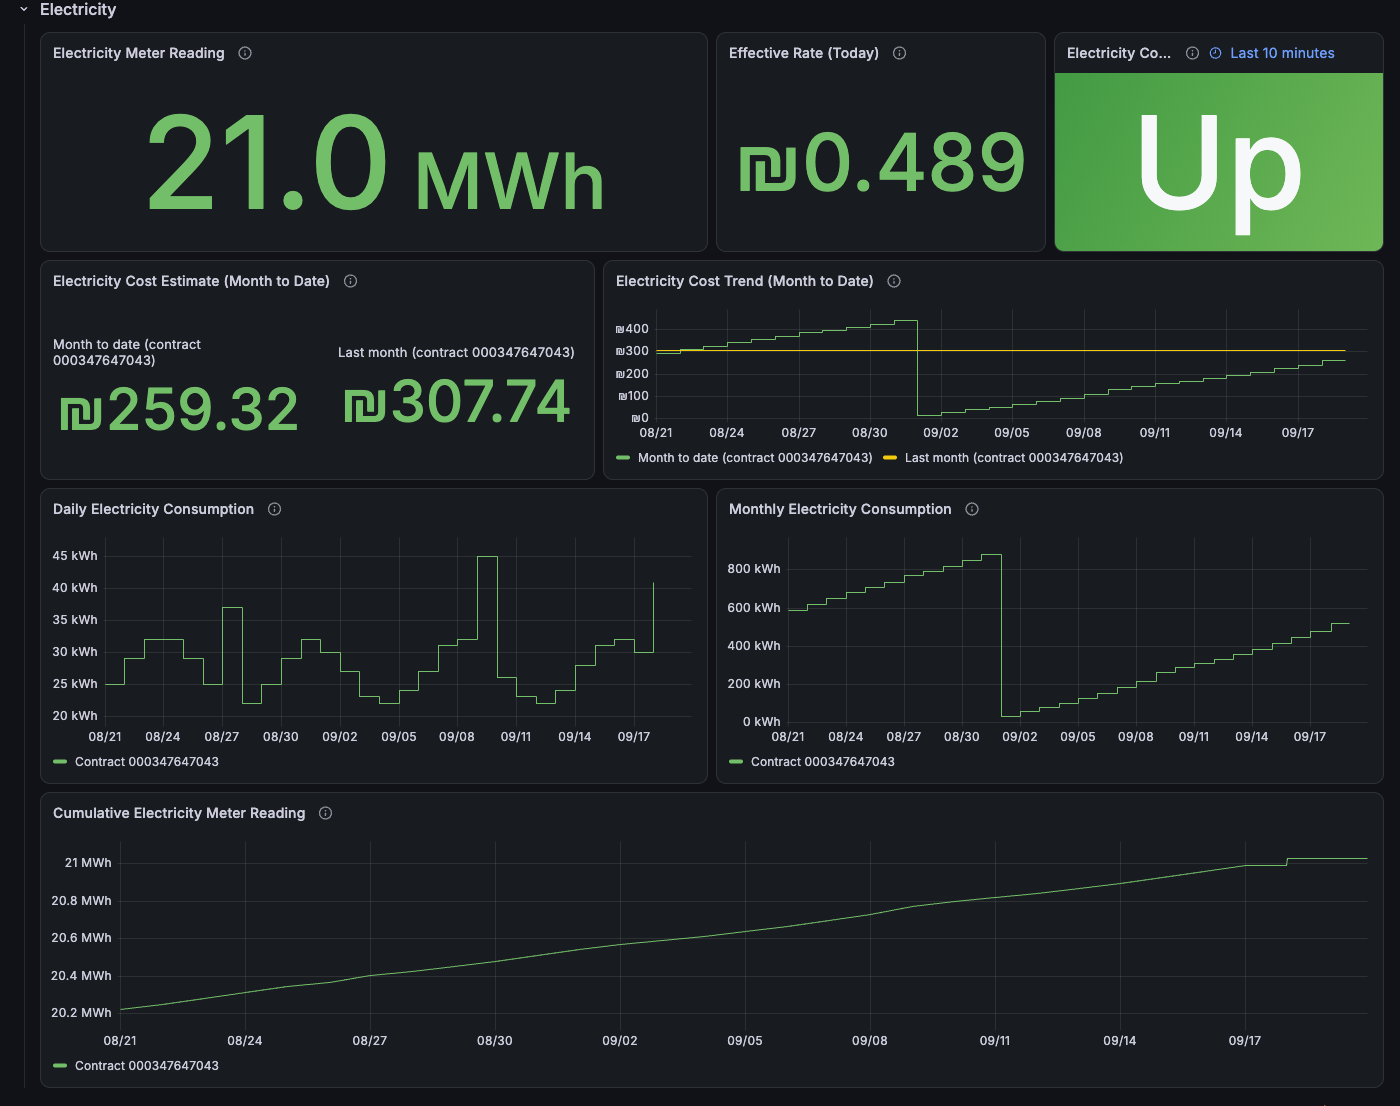
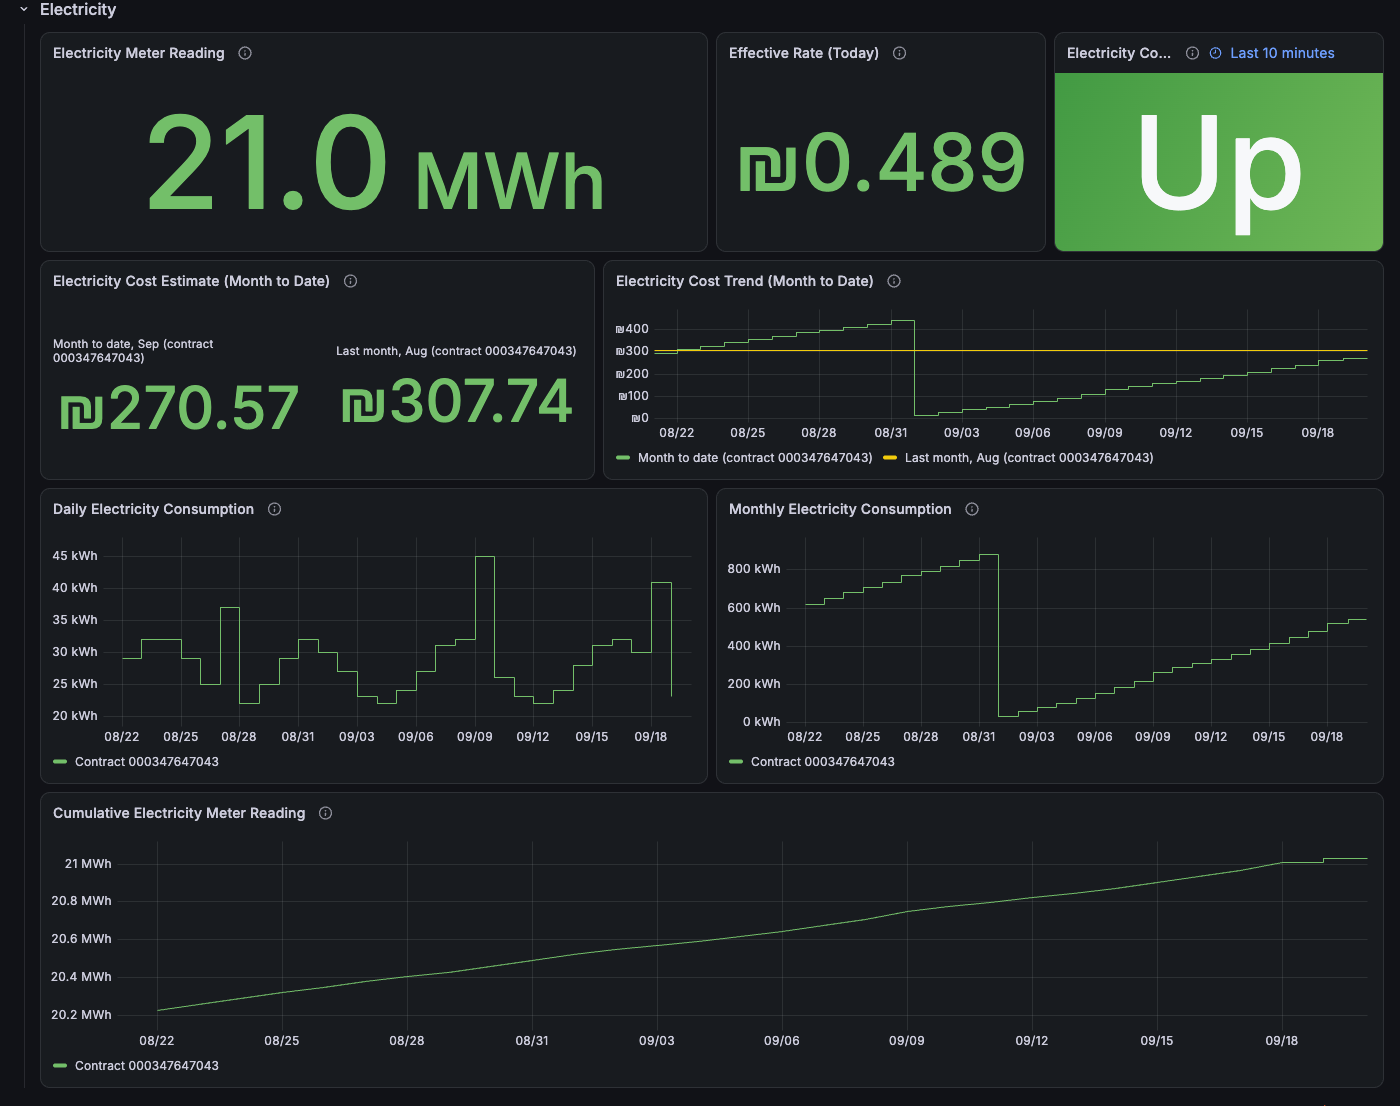
feat: label which calendar month each cost figure covers
Bump to 0.6.6. "Last month"'s cost was genuinely ambiguous once you
could browse the dashboard to a historical range (fixed in the
previous PR) — there was no way to tell which month it referred to.

Added a `month` label (e.g. "Jul") to the previous-month cost gauges,
computed once by the live collectors when they fetch that figure —
correct by construction, no Grafana-side date math needed. "Month to
date" gets a complementary label derived from the dashboard's own
selected range instead, since it isn't tied to a specific series.

Also: Cost Estimate stat panels now always show field names (not just
when multiple fields have data), and the Cost Trend graphs' "Month to
date"/"Forecast" queries got the same last_over_time robustness as the
stat panels, for consistency.

diff --git a/src/metrics.ts b/src/metrics.ts
@@ -103,8 +103,8 @@ export const waterGauges = {
   }),
   costEstimatePreviousMonthIls: new Gauge({
     name: 'israel_utility_water_cost_estimate_previous_month_ils',
-    help: "Last calendar month's final cost, priced the same way as israel_utility_water_cost_estimate_ils (i.e. with today's tariff config, not necessarily the one that applied last month). Only present when priced.",
-    labelNames: WATER_LABELS,
+    help: "Last calendar month's final cost, priced the same way as israel_utility_water_cost_estimate_ils (i.e. with today's tariff config, not necessarily the one that applied last month). Only present when priced. Carries a `month` label (e.g. \"Jul\") naming the calendar month it covers, for dashboards.",
+    labelNames: [...WATER_LABELS, 'month'],
     registers: [registry],
   }),
   meterInfo: new Gauge({
@@ -177,8 +177,8 @@ export const electricityGauges = {
   }),
   costEstimatePreviousMonthIls: new Gauge({
     name: 'israel_utility_electricity_cost_estimate_previous_month_ils',
-    help: "Last calendar month's final cost, priced the same way as israel_utility_electricity_cost_estimate_monthly_ils (i.e. with today's tariff config, not necessarily the one that applied last month). Only present when a price or tariff schedule is configured.",
-    labelNames: ELECTRICITY_LABELS,
+    help: "Last calendar month's final cost, priced the same way as israel_utility_electricity_cost_estimate_monthly_ils (i.e. with today's tariff config, not necessarily the one that applied last month). Only present when a price or tariff schedule is configured. Carries a `month` label (e.g. \"Jul\") naming the calendar month it covers, for dashboards.",
+    labelNames: [...ELECTRICITY_LABELS, 'month'],
     registers: [registry],
   }),
   tokenExpiresTimestampSeconds: new Gauge({

diff --git a/src/water/rympro-client.ts b/src/water/rympro-client.ts
@@ -7,6 +7,8 @@
  * with the HomeKit-facing pieces stripped out.
  */
 
+import { monthAbbreviation } from '../time/day.js';
+
 const BASE_URL = 'https://eu-customerportal-api.harmonyencoremdm.com';
 const CONSUMER_URL = `${BASE_URL}/consumer`;
 const CONSUMPTION_URL = `${BASE_URL}/consumption`;
@@ -96,6 +98,8 @@ export interface MeterSnapshot {
   monthly: number | null;
   /** Last calendar month's total consumption, m³. Null if unavailable. */
   previousMonth: number | null;
+  /** Short name (e.g. "Jul") of the calendar month `previousMonth` covers. Null when `previousMonth` is null. */
+  previousMonthLabel: string | null;
   /** Forecast consumption for the full month, m³. Null if unavailable. */
   forecast: number | null;
   /** Physical meter serial, when reported. */
@@ -215,7 +219,8 @@ export class RymProClient {
       // Any date within last calendar month works — the endpoint keys off
       // the month the date falls in (see `monthlyConsumption`'s own doc
       // comment) — so the last day of the previous month is as good as any.
-      const previousMonth = await this.monthlyConsumption(meterCount, shiftDays(`${today.slice(0, 7)}-01`, -1));
+      const previousMonthDate = shiftDays(`${today.slice(0, 7)}-01`, -1);
+      const previousMonth = await this.monthlyConsumption(meterCount, previousMonthDate);
       const forecast = await this.forecast(meterCount);
 
       snapshots.push({
@@ -229,6 +234,7 @@ export class RymProClient {
         weeklyDaysElapsed: week.elapsed,
         monthly,
         previousMonth,
+        previousMonthLabel: previousMonth !== null ? monthAbbreviation(previousMonthDate) : null,
         forecast,
         serial: typeof meter.meterId === 'string' ? meter.meterId : undefined,
       });

diff --git a/src/electricity/iec-client.ts b/src/electricity/iec-client.ts
@@ -14,6 +14,8 @@ import { createHash, randomBytes } from 'node:crypto';
 import { mkdir, readFile, writeFile } from 'node:fs/promises';
 import { dirname } from 'node:path';
 
+import { monthAbbreviation } from '../time/day.js';
+
 const APP_CLIENT_ID = process.env.IEC_CLIENT_ID || '0oaqf6zr7yEcQZqqt2p7';
 const CODE_CHALLENGE_METHOD = 'S256';
 const APP_REDIRECT_URI = process.env.IEC_REDIRECT_URI || 'com.iecrn:/';
@@ -532,6 +534,7 @@ export class IecClient {
       // day by day rather than only by today's rate.
       monthlyDailyConsumption: dailyBreakdown(monthly.periods),
       previousMonthDailyConsumption: dailyBreakdown(previousMonthly.periods),
+      previousMonthLabel: monthAbbreviation(previousMonthFrom),
       tokenExpiresAt: this.tokenExpiresAt(),
     };
   }
@@ -563,6 +566,8 @@ export interface ElectricitySnapshot {
   monthlyDailyConsumption: Array<{ date: string; consumption: number }>;
   /** Same as `monthlyDailyConsumption`, but for last calendar month, used to price its final cost for comparison. */
   previousMonthDailyConsumption: Array<{ date: string; consumption: number }>;
+  /** Short name (e.g. "Jul") of the calendar month `previousMonthDailyConsumption` covers. */
+  previousMonthLabel: string;
   /** Epoch seconds the current id_token expires at, for the token-expiry alert. */
   tokenExpiresAt: number | null;
 }

diff --git a/test/electricity-collector.test.ts b/test/electricity-collector.test.ts
@@ -10,7 +10,7 @@ import { ElectricityCollector } from '../src/electricity/collector.js';
 import { ReadingResolution } from '../src/electricity/iec-client.js';
 import type { Logger } from '../src/logger.js';
 import { registry } from '../src/metrics.js';
-import { dateToEpochSeconds } from '../src/time/day.js';
+import { dateToEpochSeconds, monthAbbreviation, shiftDays } from '../src/time/day.js';
 
 const VALID_ID = '000000000';
 const CONTRACT_ID = '900123456';
@@ -218,9 +218,13 @@ test('prices last calendar month\'s total separately from this month\'s, with th
   collector.stop();
 
   // this month: 5 kWh @ 2 = 10; last month: 8 kWh @ 2 = 16.
+  const previousMonth = monthAbbreviation(shiftDays(`${currentMonthKey}-01`, -1));
   const body = await registry.metrics();
   assert.match(body, new RegExp(`israel_utility_electricity_cost_estimate_monthly_ils\\{contract_id="${CONTRACT_ID}"\\} 10`));
-  assert.match(body, new RegExp(`israel_utility_electricity_cost_estimate_previous_month_ils\\{contract_id="${CONTRACT_ID}"\\} 16`));
+  assert.match(
+    body,
+    new RegExp(`israel_utility_electricity_cost_estimate_previous_month_ils\\{contract_id="${CONTRACT_ID}",month="${previousMonth}"\\} 16`),
+  );
 });
 
 test('retries persisting the flag on a later successful poll if an earlier write failed', async () => {

diff --git a/test/water-collector.test.ts b/test/water-collector.test.ts
@@ -8,6 +8,7 @@ import { test } from 'node:test';
 import type { WaterConfig } from '../src/config.js';
 import type { Logger } from '../src/logger.js';
 import { registry } from '../src/metrics.js';
+import { monthAbbreviation, shiftDays } from '../src/time/day.js';
 import { WaterCollector } from '../src/water/collector.js';
 
 const METER_ID = 55123;
@@ -139,9 +140,13 @@ test('prices last calendar month\'s total separately from this month\'s, with th
 
   // this month: 5 m3 @ 3 = 15; last month: 8 m3 @ 3 = 24.
   const LABELS = 'meter_id="55123",meter_serial="SER1"';
+  const previousMonth = monthAbbreviation(shiftDays(`${currentMonthKey}-01`, -1));
   const body = await registry.metrics();
   assert.match(body, new RegExp(`israel_utility_water_cost_estimate_ils\\{${LABELS}\\} 15`));
-  assert.match(body, new RegExp(`israel_utility_water_cost_estimate_previous_month_ils\\{${LABELS}\\} 24`));
+  assert.match(
+    body,
+    new RegExp(`israel_utility_water_cost_estimate_previous_month_ils\\{${LABELS},month="${previousMonth}"\\} 24`),
+  );
 });
 
 test('logs the backfill hint on a genuine first run, and not again once data has been recorded', async () => {

diff --git a/src/time/day.ts b/src/time/day.ts
@@ -50,3 +50,15 @@ export function enumerateMonthStarts(from: string, to: string): string[] {
   }
   return starts;
 }
+
+const MONTH_ABBREVIATIONS = ['Jan', 'Feb', 'Mar', 'Apr', 'May', 'Jun', 'Jul', 'Aug', 'Sep', 'Oct', 'Nov', 'Dec'];
+
+/**
+ * Short month name (e.g. "Jul") for a YYYY-MM or YYYY-MM-DD string. A fixed
+ * table instead of `toLocaleString` — deterministic regardless of the host's
+ * ICU data, and this project never needs anything but English abbreviations.
+ */
+export function monthAbbreviation(ymd: string): string {
+  const month = Number(ymd.slice(5, 7));
+  return MONTH_ABBREVIATIONS[month - 1]!;
+}

diff --git a/src/water/collector.ts b/src/water/collector.ts
@@ -192,10 +192,10 @@ export class WaterCollector {
         waterGauges.costEstimateForecastIls.set(labels, forecastCost);
       }
     }
-    if (snapshot.previousMonth !== null) {
+    if (snapshot.previousMonth !== null && snapshot.previousMonthLabel !== null) {
       const previousMonthCost = this.costEstimate(snapshot.previousMonth);
       if (previousMonthCost !== null) {
-        waterGauges.costEstimatePreviousMonthIls.set(labels, previousMonthCost);
+        waterGauges.costEstimatePreviousMonthIls.set({ ...labels, month: snapshot.previousMonthLabel }, previousMonthCost);
       }
     }
   }

diff --git a/src/electricity/collector.ts b/src/electricity/collector.ts
@@ -165,7 +165,7 @@ export class ElectricityCollector {
       snapshot.previousMonthDailyConsumption.map((day) => ({ date: parseYmdNoon(day.date), consumption: day.consumption })),
     );
     if (previousMonthCost !== null) {
-      electricityGauges.costEstimatePreviousMonthIls.set(labels, previousMonthCost);
+      electricityGauges.costEstimatePreviousMonthIls.set({ ...labels, month: snapshot.previousMonthLabel }, previousMonthCost);
     }
 
     if (snapshot.daily === null || !snapshot.dailyDate) {

diff --git a/CHANGELOG.md b/CHANGELOG.md
@@ -9,7 +9,35 @@ Each released version has a matching `vX.Y.Z` git tag; the release workflow uses
 the section below the matching heading as the GitHub release notes, so keep the
 headings in the `## [x.y.z] - YYYY-MM-DD` form.
 
-## [Unreleased]
+## [0.6.6] - 2026-09-20
+
+### Added
+
+- `israel_utility_water_cost_estimate_previous_month_ils` and
+  `israel_utility_electricity_cost_estimate_previous_month_ils` now carry a
+  `month` label (e.g. `month="Jul"`) naming the calendar month the figure
+  covers. Previously the dashboard's "Last month" value had no way to say
+  *which* month it was — obvious when viewing "now", genuinely ambiguous
+  when browsing the dashboard to a past range. The "Water/Electricity Cost
+  Estimate" and "Cost Trend" panels now show it directly: "Last month, Jul".
+  "Month to date" gets the same treatment, but derived from the dashboard's
+  own selected range (`${__to:date:MMM}`) rather than a metric label, since
+  it isn't tied to a specific series the way "last month" is.
+
+### Changed
+
+- The "Water/Electricity Cost Estimate" stat panels now always show each
+  field's name alongside its value (`textMode: value_and_name`), not just
+  when multiple fields have data — previously, once "Last month"/"Forecast"
+  had no data for a browsed historical range (see below), the one
+  remaining field rendered as a bare number with no label at all.
+- Extended the `last_over_time(...[3d])` robustness fix from the stat
+  panels to the matching "Cost Trend" timeseries panels' "Month to date"
+  and "Forecast" queries too, for the same step/phase-alignment reason —
+  they happened to work in testing so far, but nothing guaranteed a
+  different panel width or zoom level wouldn't hit the same coarse-step
+  gap. "Last month" in the trend graphs is left as a plain query; wrapping
+  it doesn't help when the series doesn't reach that far back yet.
 
 ### Fixed
 
